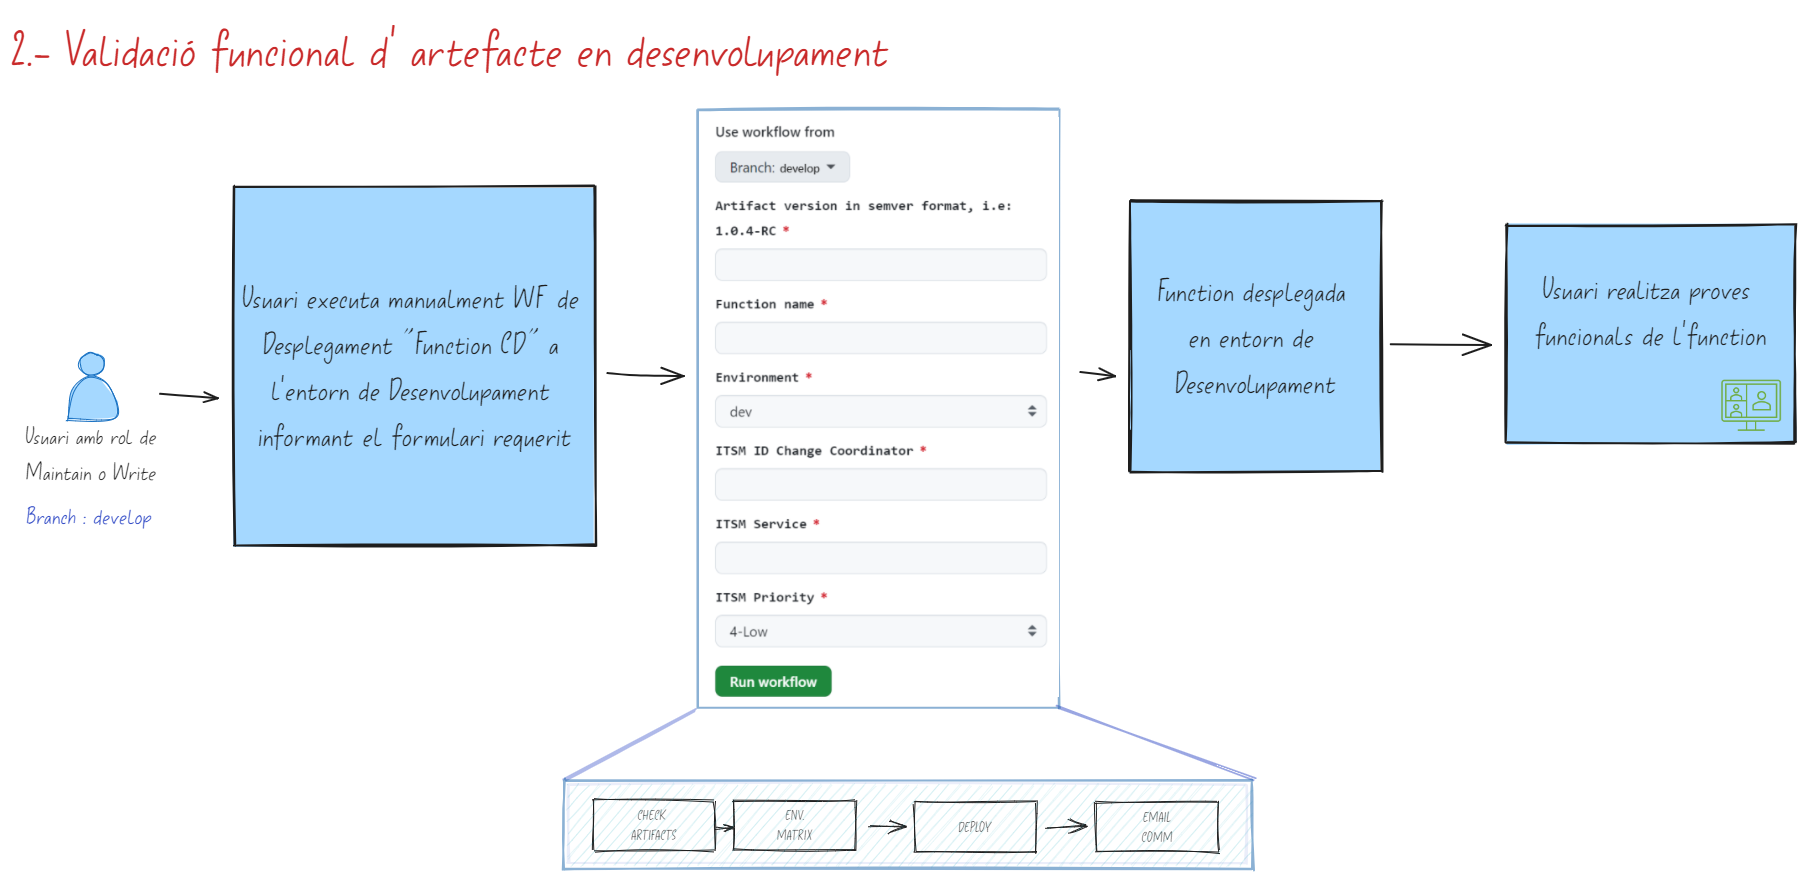
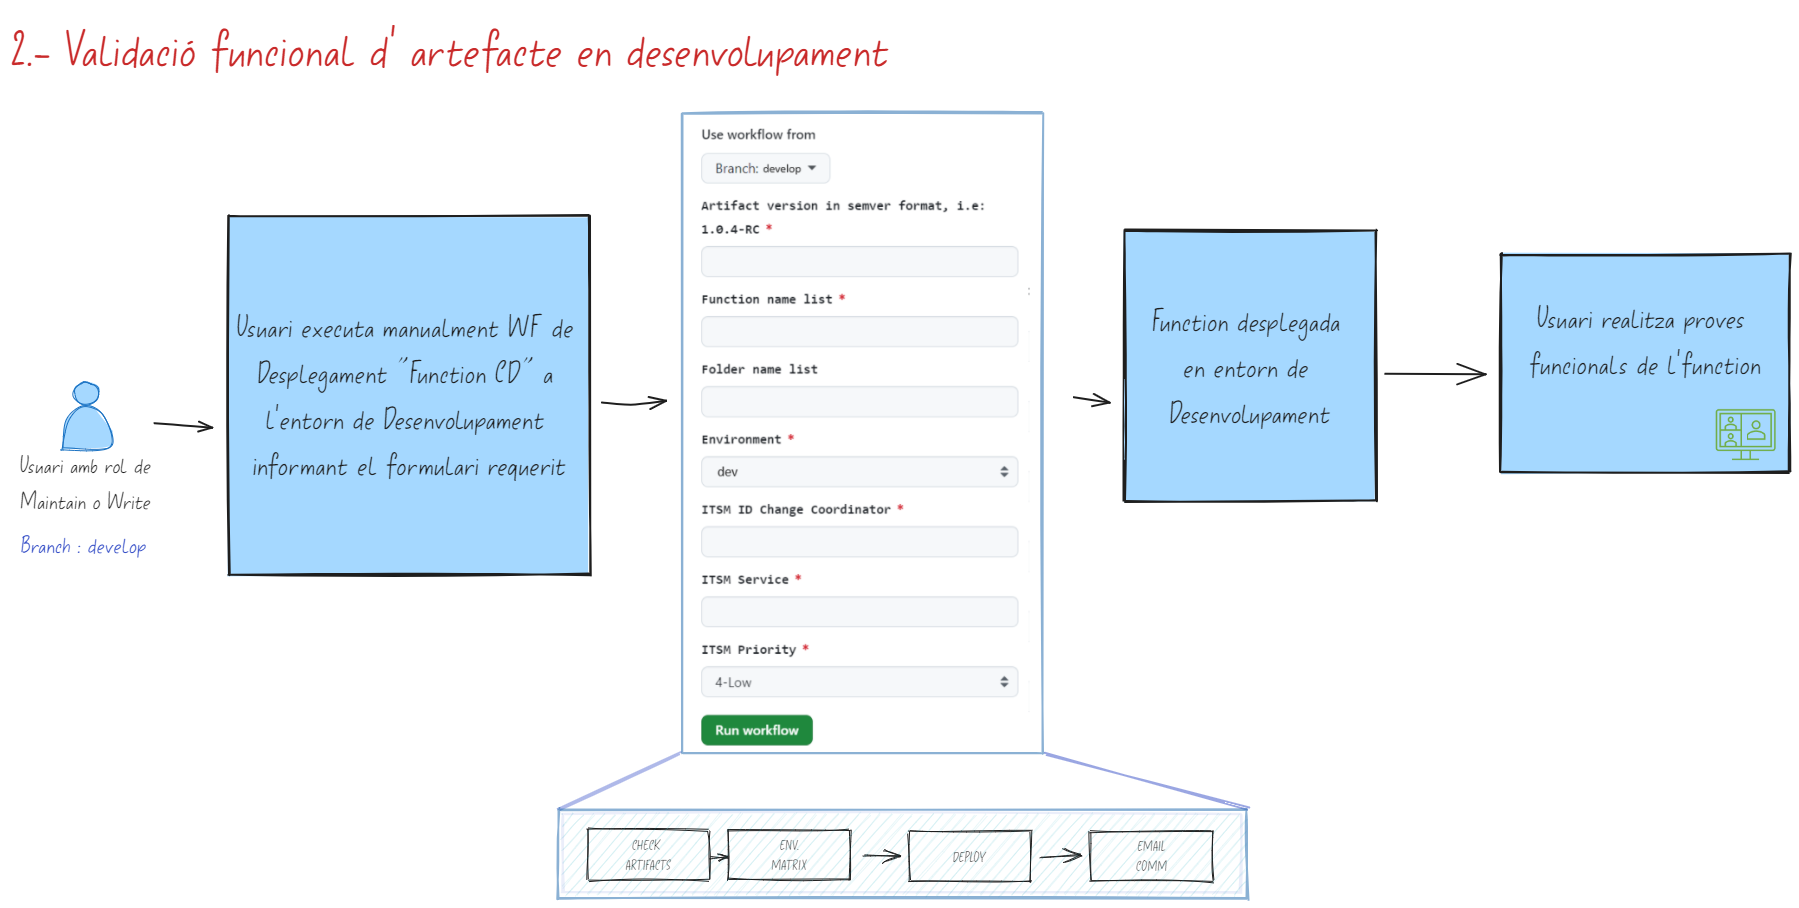
Actualización documentación Sprint #11

diff --git a/content/drafts/ghec/gh-adopcion-modelo-ghec.md b/content/drafts/ghec/gh-adopcion-modelo-ghec.md
@@ -310,10 +310,8 @@ Per sol·licitar l'alta del projecte en el nou model cal realitzar una petició 
             * engine : Seleccionar que tipus de funció es desplegarà. Actualment els valors són :
               * lambda : Functions de AWS.
               * afunc : Functions de Azure.
-            * function_name_list : Requerit. llistat, separat per comes i sense espais, dels noms de les funcions a desplegar en el cloud.
-            * folder_name_list :  Opcional. listado, separado por comas y sin espacios, de los nombres de las carpetas de cada función en el repositorio. Si solo existe una función y está en la raiz del repositorio, dejar el valor en blanco.
-
-            En el cas d'AWS, addicionalment descomentar el paràmetre **bucket_name** si s'espera que la funció en format zip superi els 50mb.  AWS requereix que es puja inicialment a un S3.
+            
+            * bucket_name : Si el peso de la función supera los 50 mg, y es una función lambda,  AWS requiere que se despliegue desde un S3 de AWS por lo que es necesario introducir el nombre del bucket y descomentar la propiedad.  En otro caso, se deja la propiedad comentada.
 
             Depenent dels valors seleccionats anteriorment, s'informaran les següents variables :
             En cas de **technology = java**  
@@ -715,7 +713,8 @@ Una vegada fet el setup inicial a nivell d'accesos i workflow, cal recalcar que 
         * FUNCTION CD, comprova que existeixi la function, que es pugui desplegar en l'entorn, i executa el desplegament.
             * Branca o branch on es troba el workflow actualitzat: develop.
             * Artifact Version : Versió de l'artefacte, en aquest cas 0.0.1-SNAPSHOT.
-            * Function Name : Nom de la Function.
+            * Function Name List : Requerit. llistat, separat per comes i sense espais, dels noms de les funcions a desplegar en el cloud.
+            * Folder Name List :  Opcional. listado, separado por comas y sin espacios, de los nombres de las carpetas de cada función en el repositorio. Si solo existe una función y está en la raiz del repositorio, dejar el valor en blanco.
             * Environment : dev, per al desplegament a desenvolupament. 
                               
       Resultat de l'operació :
@@ -760,8 +759,9 @@ Una vegada fet el setup inicial a nivell d'accesos i workflow, cal recalcar que 
           En aquest cas l'execució és manual i l'usuari haurà d'omplir un formulari amb la informació del desplegament (revisar com executar workflow manualment descrit en l'apartat **Validació funcional d'artefacte en desenvolupament**):  
           * Branca o branch on es troba el workflow actualitzat: release.
           * Artifact Version : Versió de l'artefacte, en aquest cas 0.0.1-RC.
-          * Function Name : Nom de la Function.
-          * Environment : pre, per al desplegament a Preproducció. 
+          * Function Name List : Requerit. llistat, separat per comes i sense espais, dels noms de les funcions a desplegar en el cloud.
+          * Folder Name List :  Opcional. listado, separado por comas y sin espacios, de los nombres de las carpetas de cada función en el repositorio. Si solo existe una función y está en la raiz del repositorio, dejar el valor en blanco.
+          * Environment : Pre, per al desplegament a preproducció. 
           * ITSM ID Change Coordinator: ID de l'usuari per crear la CRQ en ITSM amb l'objectiu d'informar sobre el desplegament.
           * ITSM Service : Servei associat al desplegament a registrar en ITSM.
           * Prioritat ITSM: Prioritat del Ticket a crear.
@@ -808,8 +808,9 @@ Una vegada fet el setup inicial a nivell d'accesos i workflow, cal recalcar que 
 
         * Branca o branch on es troba el workflow actualitzat: master.
         * Artifact Version : Versió de l'artefacte, en aquest cas 0.0.1.
-        * Function Name : Nom de la Function.
-        * Environment : pro, per al desplegament a Producció. 
+        * Function Name List : Requerit. llistat, separat per comes i sense espais, dels noms de les funcions a desplegar en el cloud.
+        * Folder Name List :  Opcional. listado, separado por comas y sin espacios, de los nombres de las carpetas de cada función en el repositorio. Si solo existe una función y está en la raiz del repositorio, dejar el valor en blanco.
+        * Environment : Pre, per al desplegament a producció.
         * ITSM ID Change Coordinator: ID de l'usuari per crear la CRQ en ITSM amb l'objectiu d'informar sobre el desplegament.
         * ITSM Service : Servei associat al desplegament a registrar en ITSM.
         * Prioritat ITSM: Prioritat del Ticket a crear.
